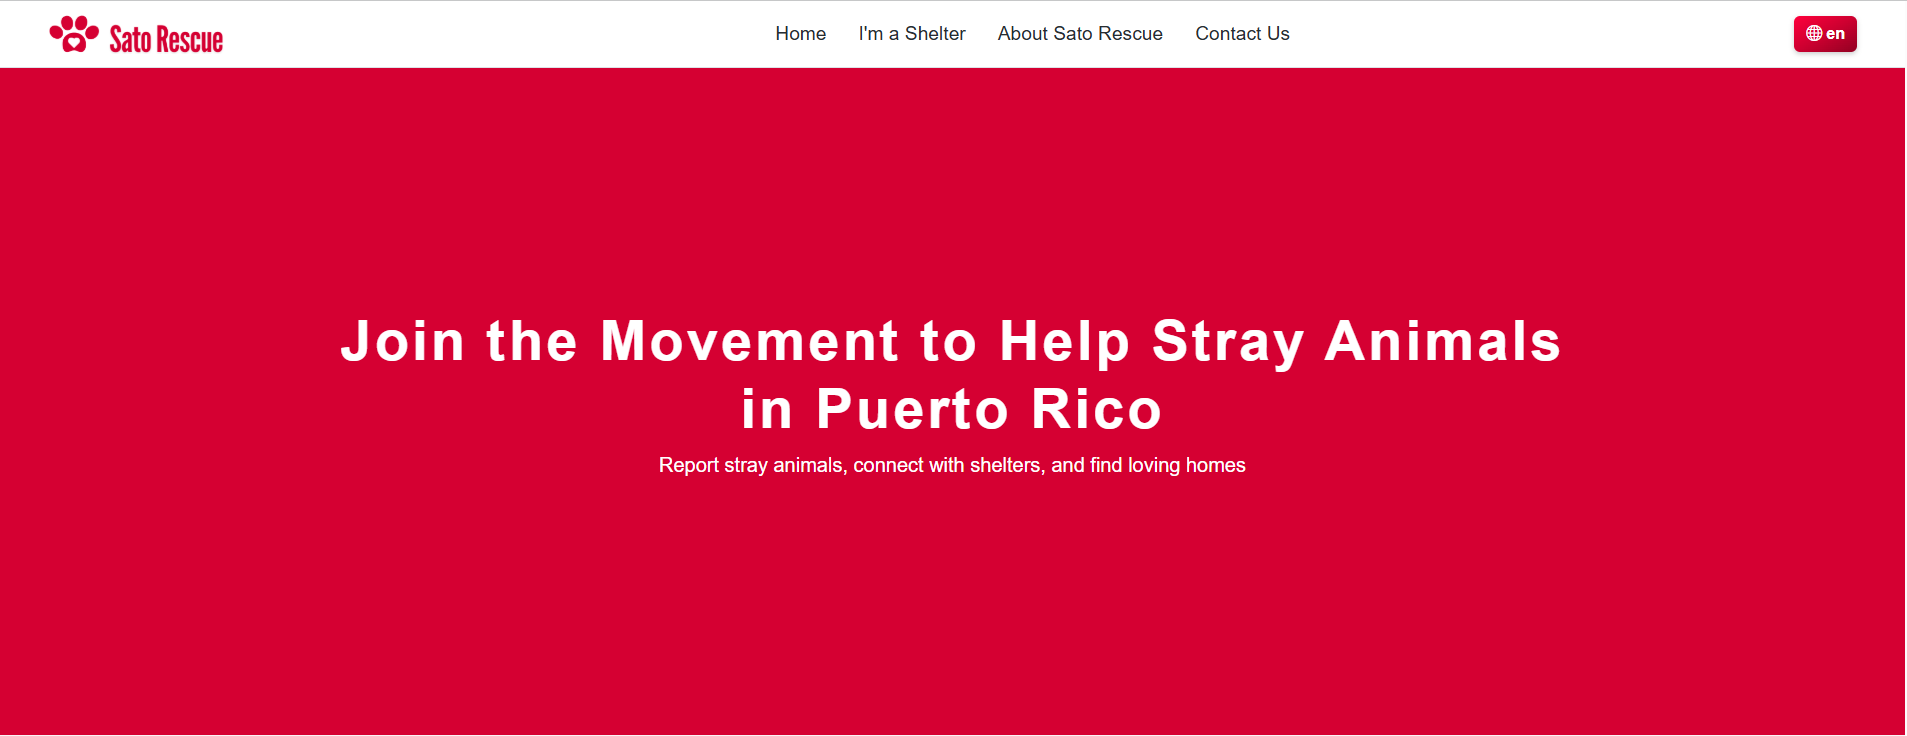
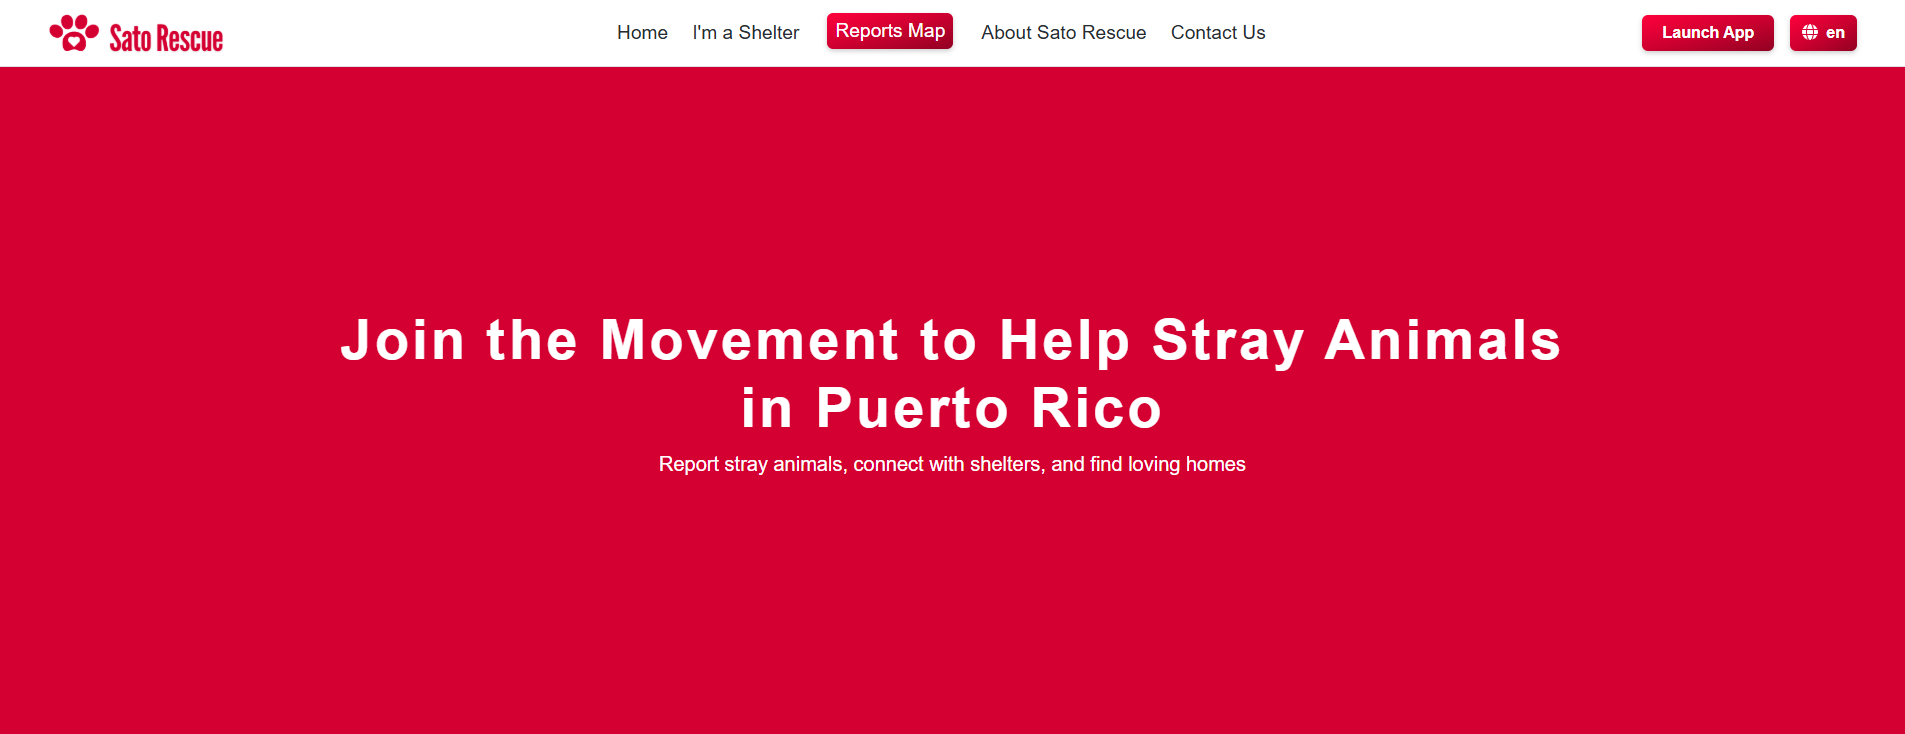
Added new projects and updated button color.

diff --git a/src/app/projects/projects.component.html b/src/app/projects/projects.component.html
@@ -7,13 +7,13 @@
       <div class="row row-height gap-5 justify-content-center">
         <div class="card rounded-2 text-white" style="width: 24rem;">
           <div class="card-image d-flex justify-content-center">
-            <img src="assets/sr_home.png" alt="SatoRescue Image" class="card-img-top p-4">
+            <img src="assets/sr_home.png" alt="SatoRescue Image" class="card-img-top p-3">
           </div>
           <div class="card-body">
             <div class="card-text text-dark h-50">
               <h3 class="card-title">Sato Rescue</h3>
               <p class="card-paragraph">
-                Sato Rescue is a web application dedicated to reporting and managing cases of stray animals. It provides a comprehensive platform for both shelters and users, making rescue efforts more efficient.
+                Sato Rescue is a SaaS platform focused on addressing stray animal issues by streamlining rescue operations, case reporting, and adoption workflows.
               </p>
             </div>
             <div class="card-button mt-auto">
@@ -25,41 +25,61 @@
             </div>
           </div>
         </div>
-        <!-- <div class="card rounded-2 text-white" style="width: 24rem;">
-          <div class="card-image d-flex justify-content-center">
-            <img src="assets/NC.png" alt="NutriCoach Image" class="card-img-top">
-          </div>
-          <div class="card-body">
-            <div class="card-text text-dark h-50">
-              <h3 class="card-title">NutriCoach</h3>
-              <p class="card-paragraph">
-                NutriCoach is a mobile application designed to help athletes manage their daily nutrition by adjusting their intakes by training intensity.
-              </p>
-            </div>
-            <div class="card-button mt-auto">
-              <a class="button-credential" target="_blank" href="https://github.com/JMO3E/NutriCoach-App">
-                <span class="pvs-navigation__text">
-                  Show Project
-                </span>
-              </a>
-            </div>
-          </div>
-        </div> -->
         <div class="card rounded-2 text-white" style="width: 24rem;">
           <div class="card-image d-flex justify-content-center">
-            <img src="assets/mbs-main.png" alt="My Bike Studio Image" class="card-img-top p-4">
+            <img src="assets/mbs-main.png" alt="My Bike Studio Image" class="card-img-top p-3">
           </div>
           <div class="card-body">
             <div class="card-text text-dark h-50">
               <h3 class="card-title">My Bike Studio</h3>
               <p class="card-paragraph">
-                My Bike Studio is a simple REST API web application designed to help users save information about their favorite bikes.
+                My Bike Studio is a full-stack web application for managing users favorite bikes. The project uses Angular and Bulma for a dynamic and responsive frontend, while Spring Boot provides a robust and scalable backend.
               </p>
             </div>
             <div class="card-button mt-auto">
               <a class="button-credential" target="_blank" href="https://github.com/JMO3E/My-Bike-Studio">
                 <span class="pvs-navigation__text">
-                  Show Project
+                  Show Repository
+                </span>
+              </a>
+            </div>
+          </div>
+        </div>
+        <div class="card rounded-2 text-white" style="width: 24rem;">
+          <div class="card-image d-flex justify-content-center">
+            <img src="assets/automate-testing.png" alt="Automate Testing API Image" class="card-img-top p-3">
+          </div>
+          <div class="card-body">
+            <div class="card-text text-dark h-50">
+              <h3 class="card-title">Automated Testing API</h3>
+              <p class="card-paragraph">
+                This project focus on designing and executing automated test cases for a Express.js backend service, ensuring reliability and quality.
+              </p>
+            </div>
+            <div class="card-button mt-auto">
+              <a class="button-credential" target="_blank" href="https://github.com/JMO3E/Automated-Testing-API">
+                <span class="pvs-navigation__text">
+                  Show Repository
+                </span>
+              </a>
+            </div>
+          </div>
+        </div>
+        <div class="card rounded-2 text-white" style="width: 24rem;">
+          <div class="card-image d-flex justify-content-center">
+            <img src="assets/CryptoCoinPipeline.png" alt="CryptoCoinPipeline Image" class="card-img-top p-3">
+          </div>
+          <div class="card-body">
+            <div class="card-text text-dark h-50">
+              <h3 class="card-title">Crypto Coins Data Pipeline</h3>
+              <p class="card-paragraph">
+                Crypto Coins is an end-to-end data project that consist of building an ETL pipeline to extract data, then clean the data and finally store it in AWS S3 bucket.
+              </p>
+            </div>
+            <div class="card-button mt-auto">
+              <a class="button-credential" target="_blank" href="https://github.com/JMO3E/Crypto-Coins-Data">
+                <span class="pvs-navigation__text">
+                  Show Repository
                 </span>
               </a>
             </div>

diff --git a/src/app/skills/skills.component.html b/src/app/skills/skills.component.html
@@ -132,7 +132,7 @@
               </div>
               <div class="col ms-1">
                 <img alt="mocha" width="24px" src="https://cdn.jsdelivr.net/gh/devicons/devicon/icons/mocha/mocha-original.svg"/>
-                <span class="ms-2 align-text-top">Mocha</span>
+                <span class="ms-2 align-text-top">Mocha.JS</span>
               </div>
               <div class="col ms-1">
                 <img alt="postman" width="24px" src="https://cdn.jsdelivr.net/gh/devicons/devicon/icons/postman/postman-original.svg"/>

diff --git a/src/styles.scss b/src/styles.scss
@@ -32,7 +32,7 @@ $transparent-color: rgba(255, 255, 255, 0.2);
   .button-credential {
     align-items: center;
     text-align: center;
-    background-image: linear-gradient(144deg, $red-color, $yellow-color 50%, $turq-color);
+    background-image: linear-gradient(144deg, $red-color, $turq-color);
     border: 0;
     border-radius: 0.5rem;
     box-shadow: rgba(151, 65, 252, 0.2) 0 15px 30px -5px;
